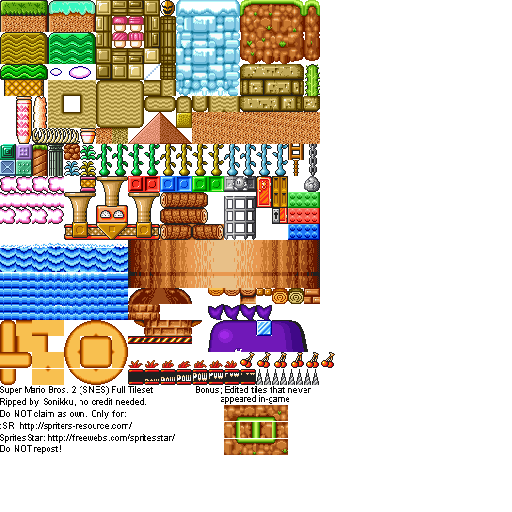
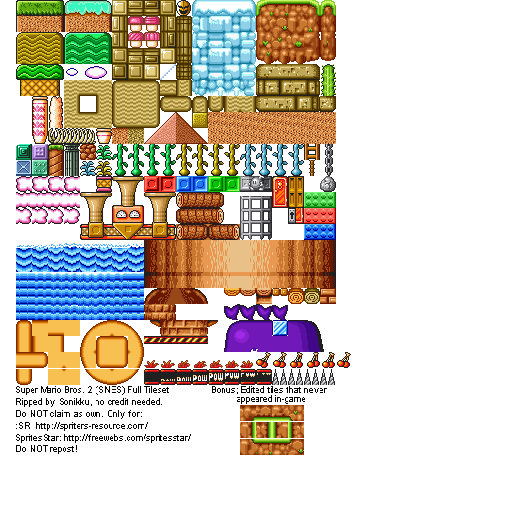
shift everything in preparation to treat 0,0 as always transparent

diff --git a/example/test-mario.html b/example/test-mario.html
@@ -26,14 +26,14 @@ function start() {
   var main = [];
   for(i = 0; i < 128*32; ++ i) {
     main.push(0);
-    main.push(7);
+    main.push(0);
   }
   for(i = 0*128; i < 5*128; ++ i) {
-    main[2*i] = 1;
+    main[2*i] = 2;
     main[2*i+1] = 1;
   }
   for(i = 5*128; i < 6*128; ++ i) {
-    main[2*i] = 1;
+    main[2*i] = 2;
     main[2*i+1] = 0;
   }
   for (i = 0; i < 120; i += 6 + Math.floor(8 * Math.random())) {
@@ -43,22 +43,22 @@ function start() {
       for (var y = 6; y <= 6 + h; y++) {
         var k = 128*y + x;
         if (x == i && y == 6 + h) {
-          main[2*k] = 0;
+          main[2*k] = 1;
           main[2*k+1] = 4;
         } else if (x == i + w && y == 6 + h) {
-          main[2*k] = 2;
+          main[2*k] = 3;
           main[2*k+1] = 4;
         } else if (y == 6+h) {
-          main[2*k] = 1;
+          main[2*k] = 2;
           main[2*k+1] = 4;
         } else if (x == i) {
-          main[2*k] = 0;
+          main[2*k] = 1;
           main[2*k+1] = 5;
         } else if (x == i + w) {
-          main[2*k] = 2;
+          main[2*k] = 3;
           main[2*k+1] = 5;
         } else {
-          main[2*k] = 1;
+          main[2*k] = 2;
           main[2*k+1] = 5;
         }
       }
@@ -68,13 +68,13 @@ function start() {
   var foreground = [];
   for(i = 0; i < 128*32; ++ i) {
     foreground.push(0);
-    foreground.push(7);
+    foreground.push(0);
   }
   for (i = 0; i < 120; i += 4 + Math.floor(8 * Math.random())) {
     var h = 12 + Math.floor(10 * Math.random());
     for(j = 0; j < h; j++) {
       var k = 128*j + i;
-      foreground[2*k] = (j == (h-1)) ? 5 : 6;
+      foreground[2*k] = (j == (h-1)) ? 6 : 7;
       foreground[2*k+1] = 9;
     }
   }
@@ -82,7 +82,7 @@ function start() {
   var background = [];
   for(i = 0; i < 128*32; ++ i) {
     background.push(0);
-    background.push(7);
+    background.push(0);
   }
 
   for (i = 0; i < 120; i += 6 + Math.floor(3 * Math.random())) {
@@ -90,7 +90,7 @@ function start() {
      var w = 1 + Math.floor(4 * Math.random());
      for (var x = i; x <= i + w; x++) {
       var k = 128*h + x;
-      background[2*k] = 0;
+      background[2*k] = 1;
       background[2*k+1] = (x == i) ? 11
                         : (x == i + w) ? 13
                         : 12;
